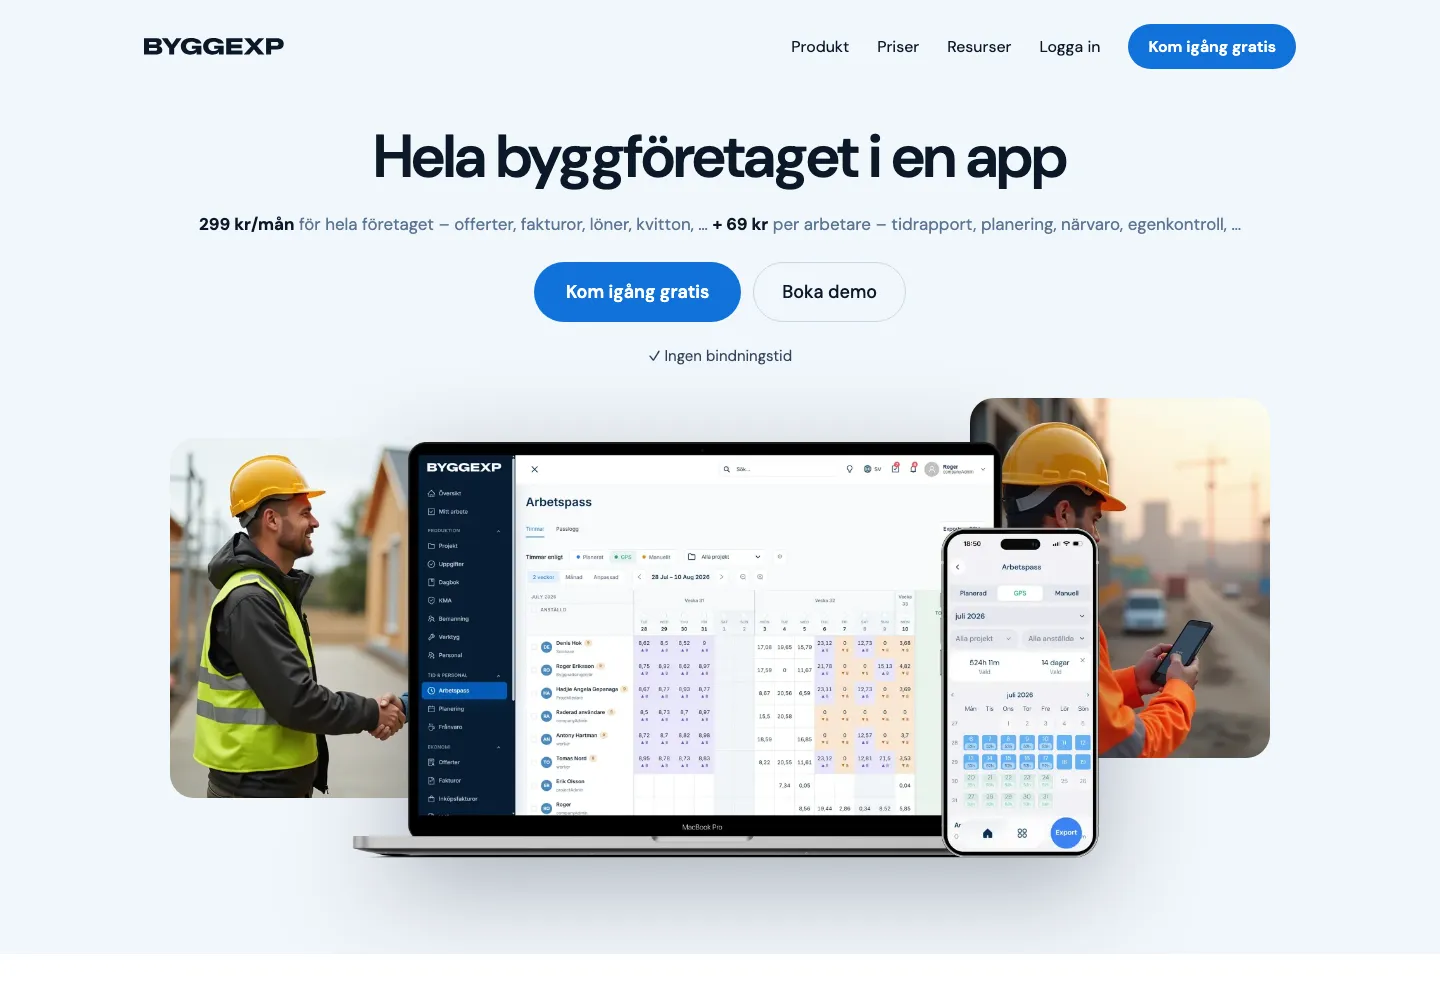
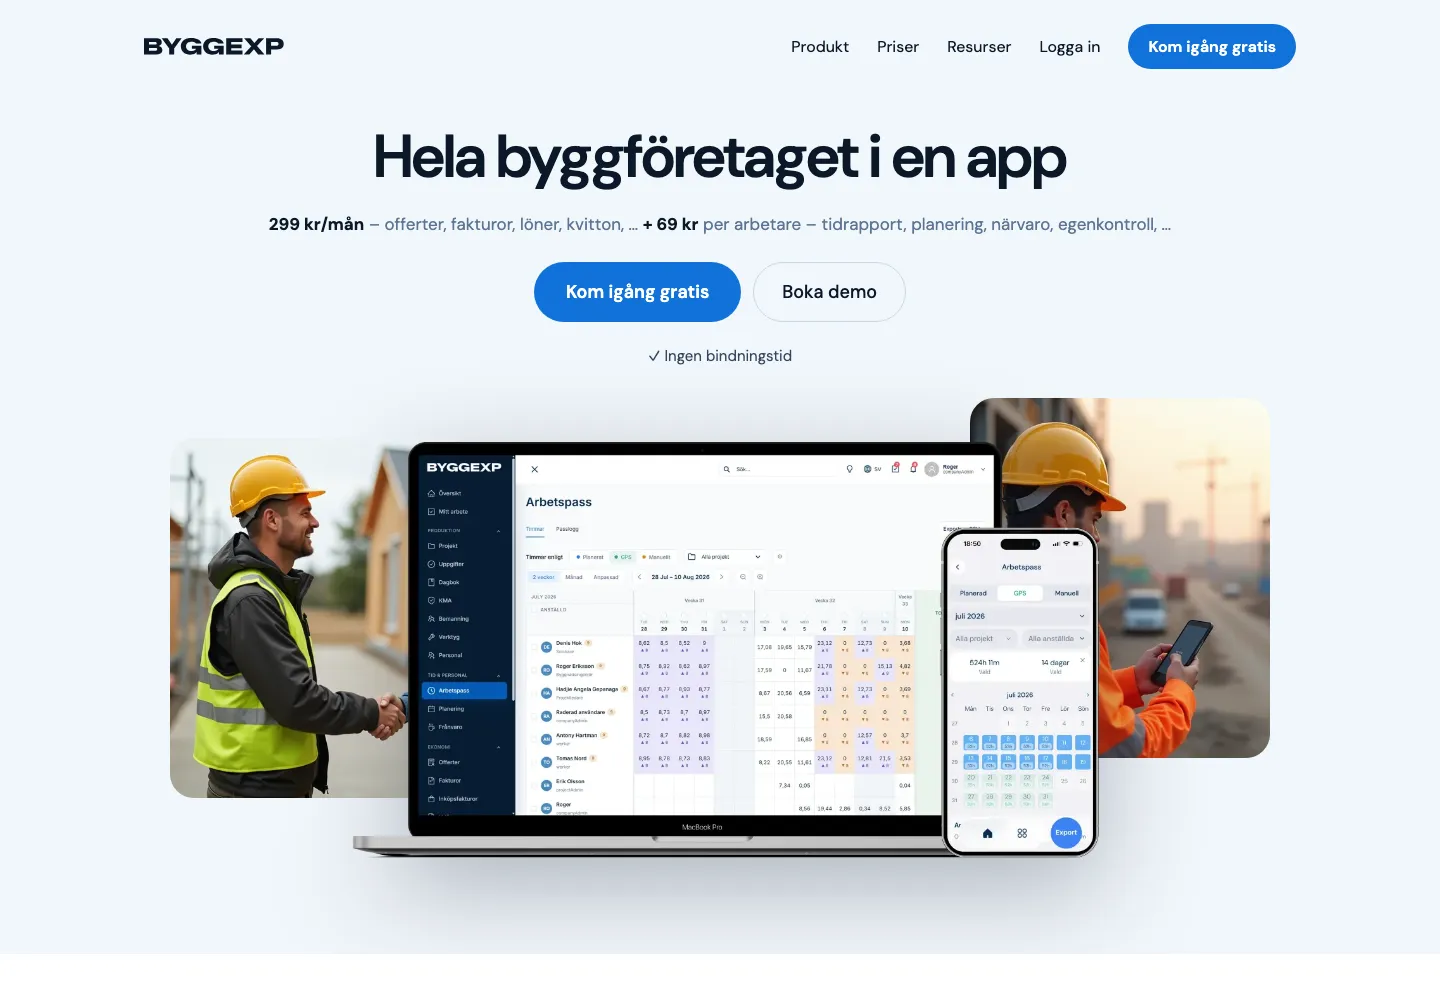
docs(design): Hero 2 – bort med «för hela företaget»
Claude-Session: https://claude.ai/code/session_01PnLsEQX5UPxK3yHg7m4S98

Changed region(s): [[0.125, 0.217, 0.8438, 0.248]]

diff --git a/docs/design/startsida-mockups-2026-10/Hero-2.html b/docs/design/startsida-mockups-2026-10/Hero-2.html
@@ -29,7 +29,7 @@ a{color:#1272d9}a:hover{color:#0b5bb3}
 <div style="max-width: 1200px; margin: 0 auto; box-sizing: border-box; padding: 32px 24px 96px; display: flex; flex-direction: column; align-items: center; gap: 32px;">
 <div style="display: flex; flex-direction: column; gap: 24px; align-items: center; text-align: center;">
 <h1 style="margin: 0; max-width: 860px; font-size: clamp(38px, 4.4vw, 60px); line-height: 1.05; font-weight: 600; letter-spacing: -0.02em;">Hela byggföretaget i en app</h1>
-<p style="margin: 0; max-width: 1200px; font-size: 17px; line-height: 1.5; color: #5b7591;"><strong style="color: #0a1828;">299 kr/mån</strong> för hela företaget – offerter, fakturor, löner, kvitton, … <strong style="color: #0a1828;">+ 69 kr</strong> per arbetare – tidrapport, planering, närvaro, egenkontroll, …</p>
+<p style="margin: 0; max-width: 1200px; font-size: 17px; line-height: 1.5; color: #5b7591;"><strong style="color: #0a1828;">299 kr/mån</strong> – offerter, fakturor, löner, kvitton, … <strong style="color: #0a1828;">+ 69 kr</strong> per arbetare – tidrapport, planering, närvaro, egenkontroll, …</p>
 <div style="display: flex; flex-wrap: wrap; gap: 12px; justify-content: center;">
 <a href="#" style="background: #1272d9; color: #ffffff; text-decoration: none; padding: 18px 32px; border-radius: 999px; font-size: 18px; font-weight: 600;">Kom igång gratis</a>
 <a href="#" style="border: 1px solid #c9d8e8; color: #0a1828; text-decoration: none; padding: 17px 28px; border-radius: 999px; font-size: 18px; font-weight: 500;">Boka demo</a>

diff --git a/docs/design/startsida-mockups-2026-10/canvas-src/Hero2.dc.html b/docs/design/startsida-mockups-2026-10/canvas-src/Hero2.dc.html
@@ -29,7 +29,7 @@ a{color:#1272d9}a:hover{color:#0b5bb3}
 <div style="max-width: 1200px; margin: 0 auto; box-sizing: border-box; padding: 32px 24px 96px; display: flex; flex-direction: column; align-items: center; gap: 32px;">
 <div style="display: flex; flex-direction: column; gap: 24px; align-items: center; text-align: center;">
 <h1 style="margin: 0; max-width: 860px; font-size: clamp(38px, 4.4vw, 60px); line-height: 1.05; font-weight: 600; letter-spacing: -0.02em;">Hela byggföretaget i en app</h1>
-<p style="margin: 0; max-width: 1200px; font-size: 17px; line-height: 1.5; color: #5b7591;"><strong style="color: #0a1828;">299 kr/mån</strong> för hela företaget – offerter, fakturor, löner, kvitton, … <strong style="color: #0a1828;">+ 69 kr</strong> per arbetare – tidrapport, planering, närvaro, egenkontroll, …</p>
+<p style="margin: 0; max-width: 1200px; font-size: 17px; line-height: 1.5; color: #5b7591;"><strong style="color: #0a1828;">299 kr/mån</strong> – offerter, fakturor, löner, kvitton, … <strong style="color: #0a1828;">+ 69 kr</strong> per arbetare – tidrapport, planering, närvaro, egenkontroll, …</p>
 <div style="display: flex; flex-wrap: wrap; gap: 12px; justify-content: center;">
 <a href="#" style="background: #1272d9; color: #ffffff; text-decoration: none; padding: 18px 32px; border-radius: 999px; font-size: 18px; font-weight: 600;">Kom igång gratis</a>
 <a href="#" style="border: 1px solid #c9d8e8; color: #0a1828; text-decoration: none; padding: 17px 28px; border-radius: 999px; font-size: 18px; font-weight: 500;">Boka demo</a>
